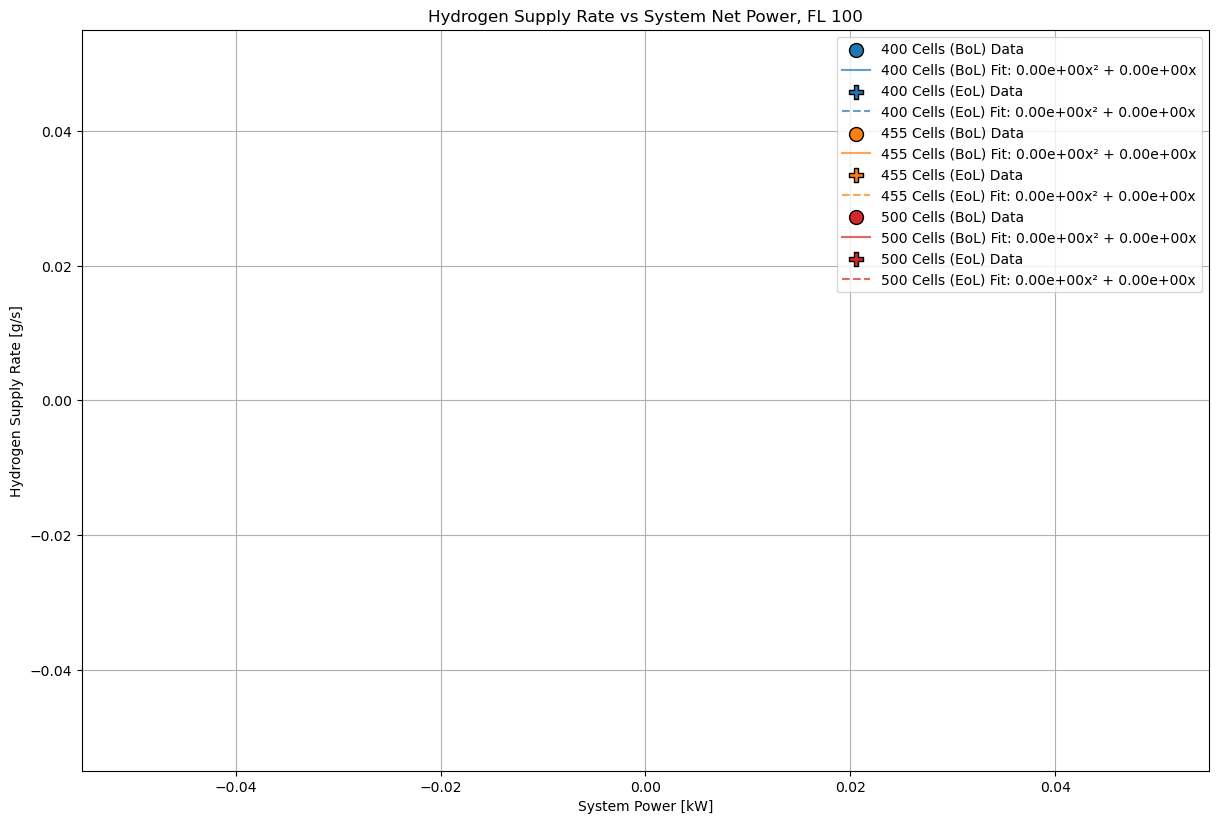
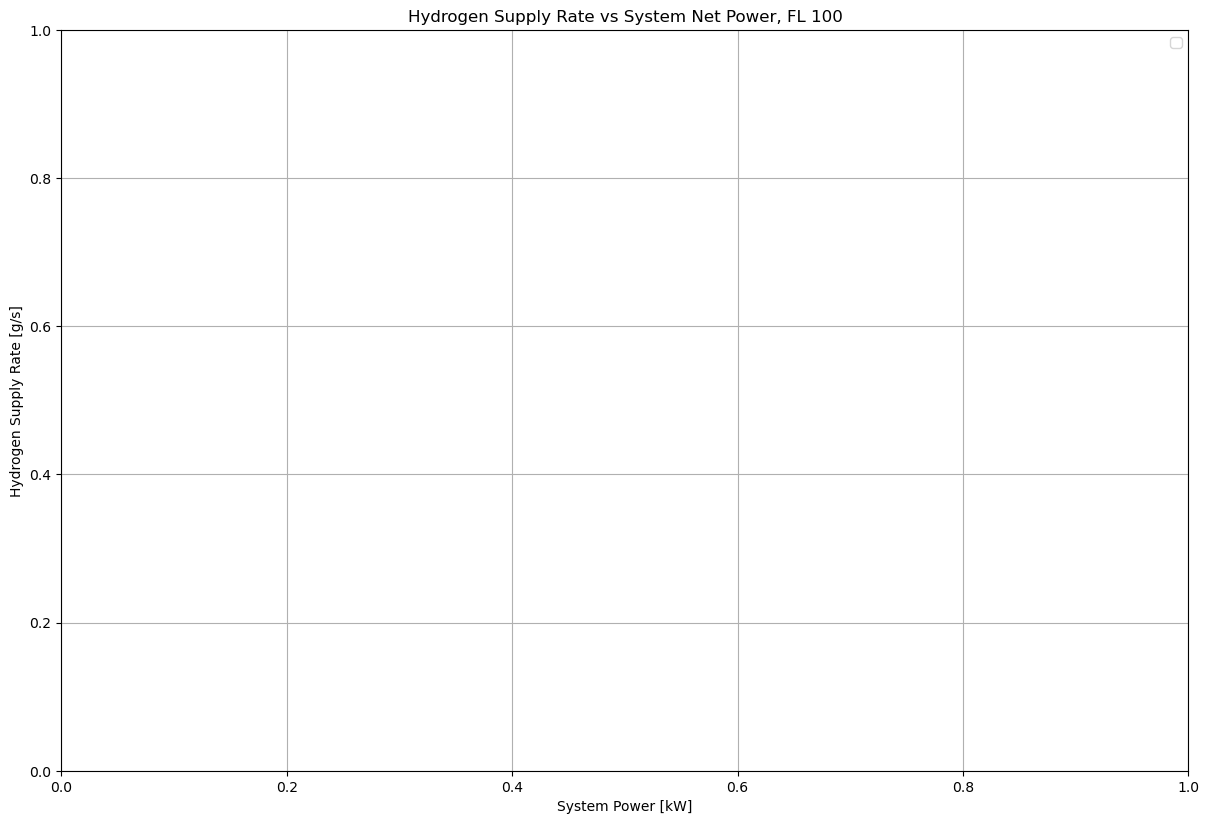
refactor: add prints if df is empty

diff --git a/05_overall/05_fcs_dimensioning_model/Postprocessing/plot_system_efficiency.py b/05_overall/05_fcs_dimensioning_model/Postprocessing/plot_system_efficiency.py
@@ -26,6 +26,9 @@ def plot_system_efficiency(plot_params, data, titles, colors, fl_set, markers_oL
 
     for df, title, color in zip(data, titles, colors):
         df = filter_data_by_f1_and_weight(df, fl_set, weighting)
+        if df.empty:
+            print(f"No data available for System Efficiency vs System Net Power {title} at FL {fl_set} or for weighting {weighting}. Skipping plot.")
+            continue  # Skip plotting if no data exists   
         for filter_eol, linestyle, marker, label_suffix in [(False, '-', markers_oL[0], 'BoL'), (True, '--', markers_oL[1], 'EoL')]:
             # Apply the filter based on the function argument
             filtered_df = df[(df["eol (t/f)"] == filter_eol) 
@@ -66,4 +69,4 @@ def plot_system_efficiency(plot_params, data, titles, colors, fl_set, markers_oL
     if saving:
         file_path = create_plot_save_directory(f'System_Efficiency_vs_Power_weighting_{weighting}.png', weighting)
         plt.savefig(file_path, bbox_inches='tight')      
-    plt.show() if show_plot  else plt.close()
+    plt.show() if show_plot and ax.lines else plt.close()

diff --git a/05_overall/05_fcs_dimensioning_model/Postprocessing/plot_h2_supply_vs_systempower.py b/05_overall/05_fcs_dimensioning_model/Postprocessing/plot_h2_supply_vs_systempower.py
@@ -53,6 +53,9 @@ def plot_h2_supply_vs_systempower(plot_params, data, titles, colors, fl_set, mar
 
     for df, title, color in zip(data, titles, colors):
         df = filter_data_by_f1_and_weight(df, fl_set, weighting)
+        if df.empty:
+            print(f"No data available for Hydrogen Supply Rate vs System Net Power {title} at FL {fl_set} or for weighting {weighting}. Skipping plot.")
+            continue  # Skip plotting if no data exists   
         for filter_eol, linestyle, marker, label_suffix in [(False, '-', markers_oL[0], 'BoL'), (True, '--', markers_oL[1], 'EoL')]:
             # Apply the filter based on the function argument
             filtered_df = df[(df["eol (t/f)"] == filter_eol) 
@@ -96,4 +99,4 @@ def plot_h2_supply_vs_systempower(plot_params, data, titles, colors, fl_set, mar
     if saving:
         file_path = create_plot_save_directory(f'H2_Supply_weighting_{weighting}.png', weighting)
         plt.savefig(file_path, bbox_inches='tight')        
-    plt.show() if show_plot else plt.close()
+    plt.show() if show_plot and ax.lines else plt.close()

diff --git a/05_overall/05_fcs_dimensioning_model/Postprocessing/plot_h2_supply_vs_FL.py b/05_overall/05_fcs_dimensioning_model/Postprocessing/plot_h2_supply_vs_FL.py
@@ -41,7 +41,9 @@ def plot_h2_supply_vs_FL(plot_params, df1, markers, fl_max, weighting, show_plot
 
     #Filter the DF for currents in range and the filter omde
     df1 = df1[(df1["current_A (Value)"] <= 700) & (df1["eol (t/f)"] == filter_mode) & (df1["weighting ([0,1])"] == weighting)]
-    
+    if df1.empty:
+        print(f"No data available for System Hydrogen Supply Rate vs FL. Skipping plot.")
+        return  # Skip plotting if no data exists   
     # Loop through each cell count and plot the data
     for cell, icon in zip(cells, markers):
         #filter dataframe after cell count and 125-+, 150+-, and 175+-
@@ -92,7 +94,7 @@ def plot_h2_supply_vs_FL(plot_params, df1, markers, fl_max, weighting, show_plot
     if saving:
         file_path = create_plot_save_directory(f'H2_supply_vs_flightlevel_{mode}_weighting_{weighting}.png', weighting)
         plt.savefig(file_path, bbox_inches='tight')
-    plt.show() if show_plot else plt.close()
+    plt.show() if show_plot and ax.lines else plt.close()
 
 
 

diff --git a/05_overall/05_fcs_dimensioning_model/Postprocessing/plot_system_mass_estimate.py b/05_overall/05_fcs_dimensioning_model/Postprocessing/plot_system_mass_estimate.py
@@ -103,7 +103,7 @@ def plot_system_mass_estimate(plot_params, data, titles, colors, components_dict
                 (df["weighting ([0,1])"] == weighting)]
         
         if df.empty:
-            print(f"No data available for {title} at FL {fl_set}. Skipping plot.")
+            print(f"No data available for Predicted FCM Mass {title} at FL {fl_set} or weighting {weighting}. Skipping plot.")
             return  # Skip plotting if no data exists
         
         # Extract all power points from the filtered DataFrame
@@ -341,4 +341,4 @@ def plot_system_mass_estimate(plot_params, data, titles, colors, components_dict
         file_path = create_plot_save_directory(f'Weight_estimation_vs_power_{mode}_weighting_{weighting}.png', weighting)
         plt.savefig(file_path, bbox_inches='tight')
 
-    plt.show() if show_plot else plt.close()
+    plt.show() if show_plot and ax.lines else plt.close()

diff --git a/05_overall/05_fcs_dimensioning_model/Postprocessing/plot_pol_curves_connected.py b/05_overall/05_fcs_dimensioning_model/Postprocessing/plot_pol_curves_connected.py
@@ -73,7 +73,9 @@ def plot_polarization_curves_bol_eol(plot_params, df1, titles, colors, fl_set, m
     # Filter data for BOL and EOL
     bol_data = filter_data(df1, fl_set, weighting, eol=False, cell_counts=cell_counts)
     eol_data = filter_data(df1, fl_set, weighting, eol=True, cell_counts=cell_counts)
-
+    if all(df.empty for df in bol_data.values() and eol_data.values()):
+        print(f"No data available for System Polarization Curve - EoL vs BoL at FL {fl_set} or for weighting {weighting}. Skipping plot.")
+        return  # Skip plotting if no data exists
     # Create the plot
     fig, ax = plt.subplots(figsize=(12, 8))
     plot_data(ax, bol_data, eol_data, titles, colors, highlight_powers, markers_oL)

diff --git a/05_overall/05_fcs_dimensioning_model/Postprocessing/plot_power_grid.py b/05_overall/05_fcs_dimensioning_model/Postprocessing/plot_power_grid.py
@@ -24,6 +24,9 @@ def plot_power_needs(plot_params, data, titles, fl_set, weighting, show_plot, sa
         #Formate the data to the needed formate:
         df = format_data_for_plot(df1, plot_params['components'], fl_set, plot_params['power_range'], weighting, eol_col='eol (t/f)')
         
+        if df.empty:
+            print(f"No data available for Power Consumption of Components {title} at FL {fl_set} or for weighting {weighting}. Skipping plot.")
+            continue  # Skip plotting if no data exists        
         # Set up the figure and axis
         fig, ax = plt.subplots(figsize=(10, 8))
     

diff --git a/05_overall/05_fcs_dimensioning_model/Postprocessing/plot_power_grid_heatflux.py b/05_overall/05_fcs_dimensioning_model/Postprocessing/plot_power_grid_heatflux.py
@@ -24,6 +24,10 @@ def plot_power_needs_heatflux(plot_params, data, titles, fl_set, weighting, show
         #Formate the data to the needed formate:
         df = format_data_for_plot(df1, plot_params['components'], fl_set, plot_params['power_range'], weighting, eol_col='eol (t/f)')
         
+        if df.empty:
+            print(f"No data available for Heat Flux of Components {title} at FL {fl_set} or for weighting {weighting}. Skipping plot.")
+            continue  # Skip plotting if no data exists   
+
         # Set up the figure and axis
         fig, ax = plt.subplots(figsize=(10, 8))
     

diff --git a/05_overall/05_fcs_dimensioning_model/Postprocessing/plot_pol_curves.py b/05_overall/05_fcs_dimensioning_model/Postprocessing/plot_pol_curves.py
@@ -25,7 +25,7 @@ def plot_polarization_curves(plot_params, data, titles, fl_set, markers_oL, weig
         df = filter_data_by_f1_and_weight(df, fl_set, weighting)
         
         if df.empty:
-            print(f"No data available for {title} at FL {fl_set} or for weighting {weighting}. Skipping plot.")
+            print(f"No data available for System Polarization Curve {title} at FL {fl_set} or for weighting {weighting}. Skipping plot.")
             continue  # Skip plotting if no data exists
 
         # Create the figure and axis

diff --git a/05_overall/05_fcs_dimensioning_model/Postprocessing/plot_compressor_map.py b/05_overall/05_fcs_dimensioning_model/Postprocessing/plot_compressor_map.py
@@ -128,4 +128,4 @@ def plot_compressor_map(plot_params, data, titles, colors, markers, fl_set, weig
         plt.savefig(file_path, bbox_inches='tight')
     
     # Show the plot
-    plt.show() if show_plot else plt.close()
+    plt.show() if show_plot and ax.lines else plt.close()
